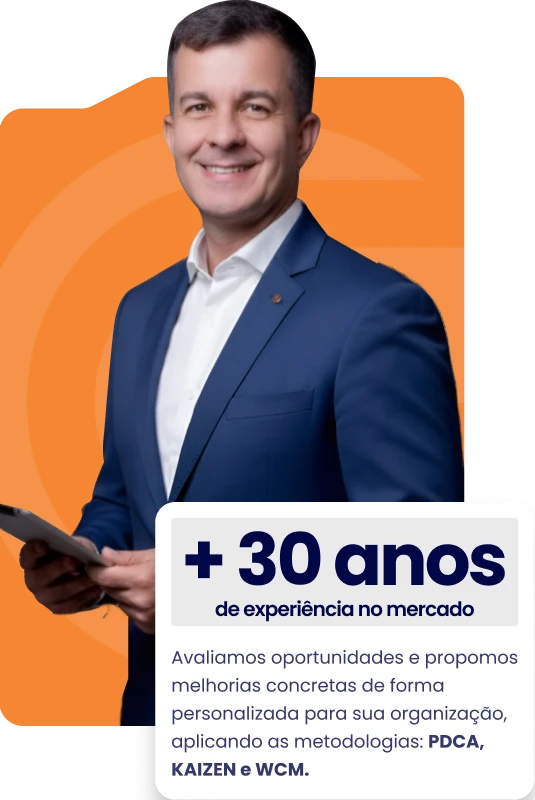
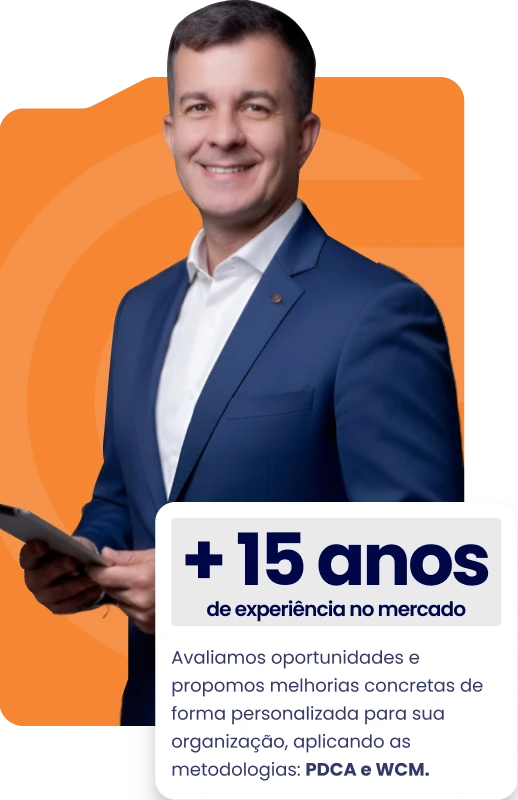
Alterações de textos solicitadas.

diff --git a/index.html b/index.html
@@ -171,22 +171,19 @@
 			<section class="hero" id="inicio">
 				<div class="container hero-conteudo">
 					<p class="tag-padrao">
-						<span></span>Consultoria Corporativa e Desenvolvimento
+						<span></span>Consultoria em gestão empresarial <br/> e desenvolvimento de líderes
 					</p>
 					<div class="hero-textos">
 						<h1 class="titulo">
-							Transformamos o potencial da
-							<span>sua empresa em resultados</span> reais e escaláveis.
+							Reconhecidos pela execução que gera <span>resultados reais.</span>
 						</h1>
 						<p class="subtitulo">
-							Através de
-							<strong>metodologias ágeis e desenvolvimento humano</strong>,
-							elevamos o patamar de organizações com foco em produtividade,
-							gestão e excelência operacional.
+							Estruturamos a gestão, padronizamos processos e desenvolvemos líderes para garantir resultados sustentáveis.
 						</p>
 					</div>
 					<a target="_blank" href="https://wa.me/5581997674255" class="btn btn-primario"
-						>Agendar uma Conversa Estratégica
+						>Agende um diagnóstico da gestão de sua empresa
+
 						<img src="resources/assets/icons/flecha-cta.svg" alt="flecha cta"
 					/></a>
 				</div>
@@ -208,17 +205,13 @@
 						</h2>
 						<div class="subtitulo">
 							<p>
-								Acreditamos que a verdadeira evolução de um negócio acontece
-								quando processos eficientes se alinham a pessoas engajadas.
+								A verdadeira evolução acontece quando a empresa possui metas claras em cada área, processos padronizados e estáveis, e uma equipe engajada.
 							</p>
 							<p>
-								Atuamos lado a lado com a sua organização, diagnosticando
-								gargalos e implementando soluções práticas através da
-								metodologia PDCA.
+								Por isso, atuamos lado a lado da sua organização, diagnosticando gargalos e implementando soluções práticas com metodologias como <strong>PDCA</strong> e <strong>WCM</strong>.
 							</p>
 							<p>
-								Nosso compromisso não é entregar relatórios, é entregar
-								performance corporativa e lucratividade.
+								Nosso compromisso não é entregar relatórios, é entregar <strong>performance corporativa e lucratividade.</strong>
 							</p>
 						</div>
 					</div>
@@ -338,11 +331,7 @@
 							<img src="./resources/assets/icons/icone-3.svg" alt="ìcone de nuvem com líder ao centro" />
 							<h3>Desenvolvimento dos Líderes e Equipes</h3>
 							<p>
-								Resultados sustentáveis dependem de pessoas preparadas para
-								executar com método. A GESTEQ desenvolve líderes e equipes com
-								foco em comportamento, disciplina e tomada de decisão, formando
-								profissionais capazes de sustentar processos, conduzir a rotina
-								e garantir a evolução contínua da organização.
+								Resultados sustentáveis dependem de gestores e líderes preparadas para executar o que foi planejado. A GESTEQ atua no <strong>desenvolvimento das competências de gestão e liderança</strong>, formando profissionais capazes de superar as metas, sustentar processos, conduzir os rituais, garantir o engajamento da equipe e a evolução contínua da organização.
 							</p>
 						</div>
 					</div>
@@ -355,25 +344,25 @@
 				<p class="tag-invertida"><span></span>Nossa trajetória em dados</p>
 				<div class="numeros-grid">
 					<div class="numero-item">
-						<span class="numero-valor" data-target="2000" data-prefix="+"
+						<span class="numero-valor" data-target="30000" data-prefix="+"
 							>0</span
 						>
 						<p class="numero-label">Horas de Consultoria</p>
 					</div>
 					<div class="numero-item">
-						<span class="numero-valor" data-target="285" data-prefix="+"
+						<span class="numero-valor" data-target="350" data-prefix="+"
 							>0</span
 						>
 						<p class="numero-label">Projetos Concluídos</p>
 					</div>
 					<div class="numero-item">
-						<span class="numero-valor" data-target="9000" data-prefix="+"
+						<span class="numero-valor" data-target="10500" data-prefix="+"
 							>0</span
 						>
 						<p class="numero-label">Profissionais Treinados</p>
 					</div>
 					<div class="numero-item">
-						<span class="numero-valor" data-target="90" data-prefix="+">0</span>
+						<span class="numero-valor" data-target="120" data-prefix="+">0</span>
 						<p class="numero-label">Instituições Atendidas</p>
 					</div>
 				</div>

diff --git a/resources/css/style.css b/resources/css/style.css
@@ -75,12 +75,14 @@ a {
 
 .tag-padrao {
     font-size: .875rem;
+    line-height: 1rem;
     font-weight: 400;
     color: var(--cor-secundaria);
     display: flex;
     flex-direction: column;
     align-items: center;
     position: relative;
+    gap: .25rem;
 
     span {
         display: inline-block;
@@ -92,21 +94,19 @@ a {
                     0 53px 32px 0 rgba(245, 134, 52, 0.5),
                     0 24px 24px 0 rgba(245, 134, 52, 0.85),
                     0 6px 13px 0 rgba(245, 134, 52, 0.98);
-
-        /* animation: linhaMagica 2.5s ease-in-out infinite; */
-        transform-origin: left;
-        transform: scaleX(1);
     }
 }
 
 .tag-invertida {
     color: var(--cor-bg);
     font-size: .875rem;
+    line-height: 1rem;
     font-weight: 400;
     display: flex;
     flex-direction: column;
     align-items: center;
     position: relative;
+    gap: .25rem;
 
     span {
         display: inline-block;
@@ -118,36 +118,6 @@ a {
                     0 53px 32px 0 rgba(255, 255, 255, 0.5),
                     0 24px 24px 0 rgba(255, 255, 255, 0.85),
                     0 6px 13px 0 rgba(255, 255, 255, 0.98);
-
-        transform-origin: left;
-        transform: scaleX(1);
-    }
-}
-
-.tag-padrao:hover span, .tag-invertida:hover span {
-    animation: linhaMagica 1.5s ease-in-out forwards;
-}
-
-@keyframes linhaMagica {
-    /* 1. Início: Linha completa */
-    0%, 10% {
-        transform-origin: right; /* Âncora na direita */
-        transform: scaleX(1);
-    }
-    /* 2. Encolhe da esquerda para a direita */
-    45%, 50% {
-        transform-origin: right;
-        transform: scaleX(0); /* Fica com largura 0 */
-    }
-    /* 3. Troca a âncora invisivelmente enquanto a linha está sumida */
-    50.1% {
-        transform-origin: left; /* Muda a âncora para a esquerda */
-        transform: scaleX(0);
-    }
-    /* 4. Estica da esquerda para a direita */
-    90%, 100% {
-        transform-origin: left;
-        transform: scaleX(1); /* Volta para a largura normal */
     }
 }
 

diff --git a/resources/css/responsivo.css b/resources/css/responsivo.css
@@ -57,6 +57,10 @@
     .titulo {
         font-size: 2.75rem;
     }
+
+    .hero .tag-padrao span {
+        align-self: center !important;
+    }
 }
 
 @media (max-width: 1024px) {
@@ -102,13 +106,15 @@
     .hero .btn {
         width: 100%;
         justify-content: center;
+        text-wrap: balance;
+        white-space: normal;
     }
 }
 
 @media (max-width: 415px) {
     .hero .btn {
-        font-size: 3.5vw;
-        white-space: nowrap;
+        font-size: 0.95rem;
+        white-space: normal;
     }
 }
 

diff --git a/resources/js/components.js b/resources/js/components.js
@@ -22,7 +22,10 @@ const headerHTML = `
                             <li><a href="#">Desenvolvimento dos Líderes e Equipes</a></li>
                         </ul>
                     </li>
+                    <li><a href="#blog">Blog</a></li>
                     <li><a href="#clientes">Clientes</a></li>
+                    <li><a href="#fale-conosco"><strong>Fale Conosco</strong></a></li>
+
                 </ul>
 
                 <div class="nav-cta">

diff --git a/resources/css/secoes/hero.css b/resources/css/secoes/hero.css
@@ -19,9 +19,13 @@
 .hero-conteudo {
     display: flex;
     flex-direction: column;
-    max-width: 790px;
+    max-width: 740px;
     align-items: flex-start;
     gap: 1.275rem;
+}
+
+.hero .tag-padrao span {
+    align-self: start;
 }
 
 .hero-textos {

diff --git a/google9c38555e0faf50d7.html b/google9c38555e0faf50d7.html
@@ -1,0 +1,1 @@
+google-site-verification: google9c38555e0faf50d7.html
